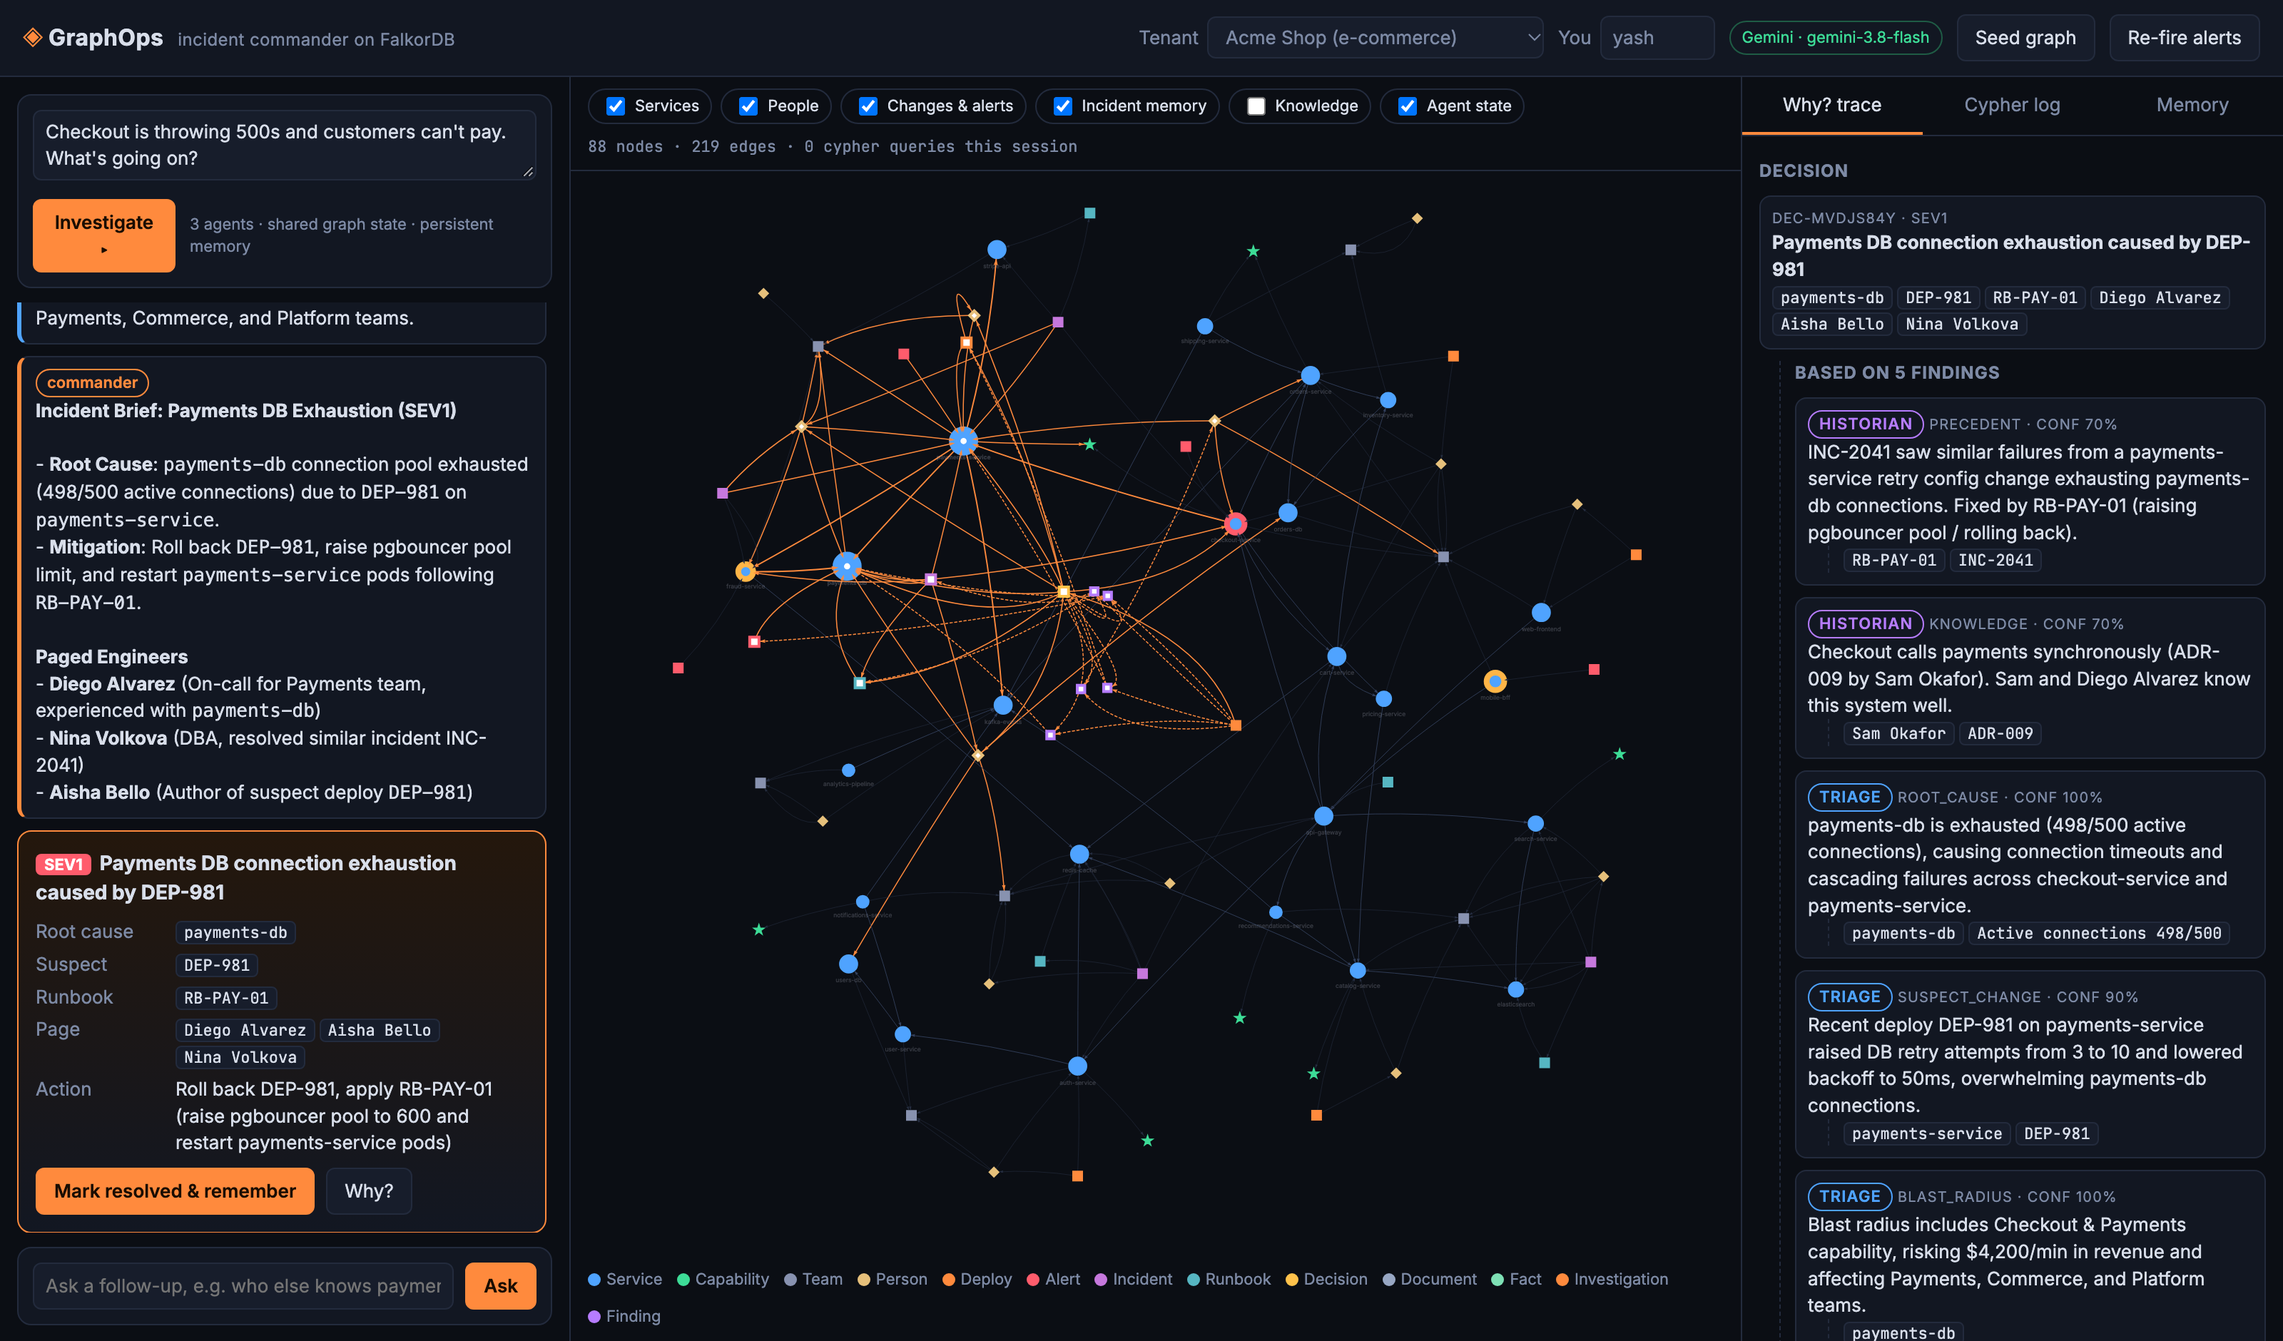
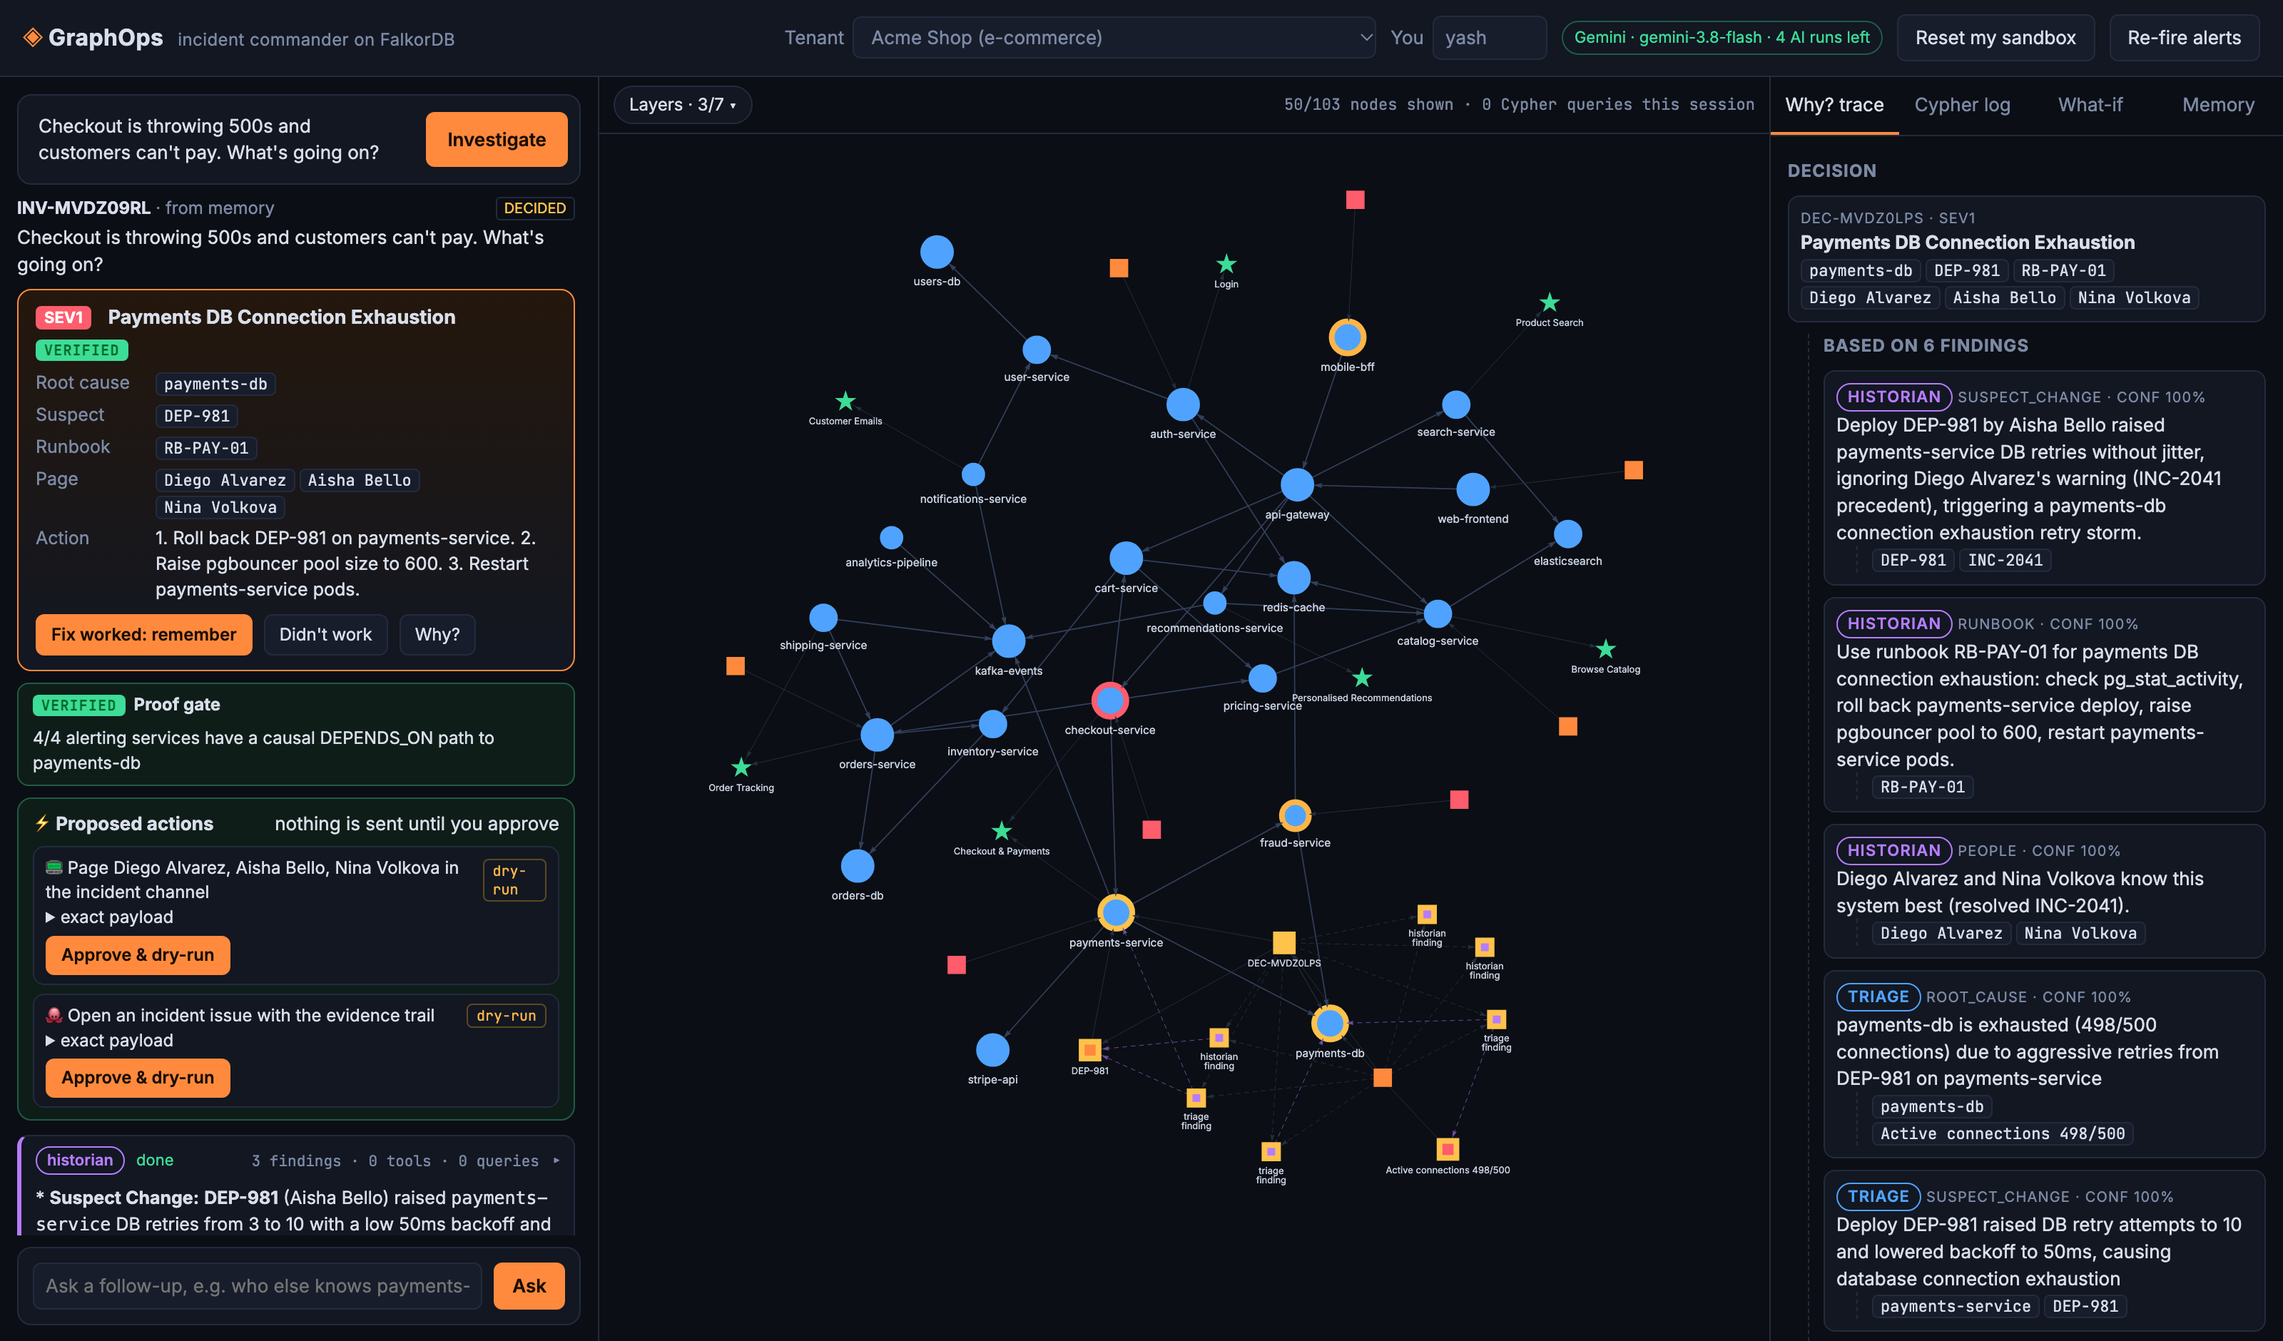
Docs refresh: new screenshot, diagram with actions, README brought up to date
- New README screenshot of a real Gemini run in the redesigned UI
- Architecture diagram: human-approved actions, trace_change, containment
- README: brief/sections UI, parsimony ranking, Historian company-brain
  tools, Commander gate and actions, otel tenant, model pool behaviour,
  CI scope, runbook versions and Action nodes in the graph model
- ?v=<id> opens a specific visitor sandbox

diff --git a/public/app.js b/public/app.js
@@ -27,6 +27,9 @@ const state = {
 // A random per-browser id. In public mode the server gives each visitor a
 // private GRAPH.COPY sandbox keyed by it.
 const VISITOR = (() => {
+  // ?v=<id> opens a specific sandbox (used for shareable links and screenshots).
+  const fromUrl = new URLSearchParams(location.search).get('v');
+  if (fromUrl) return fromUrl.replace(/[^a-z0-9]/gi, '').slice(0, 16);
   try {
     let v = localStorage.getItem('graphops-visitor');
     if (!v) { v = Math.random().toString(36).slice(2, 12); localStorage.setItem('graphops-visitor', v); }

diff --git a/README.md b/README.md
@@ -7,13 +7,15 @@
 > "Checkout is throwing 500s and customers can't pay." In seconds GraphOps says it's **payments-db**
 > connection exhaustion triggered by **DEP-981** (a retry change shipped 23 minutes ago). This is the same failure as **INC-2041**,
 > so it recommends rolling back and following **RB-PAY-01**, and it pages **Diego** (on call), **Nina** (who fixed it last time) and
-> **Aisha** (who wrote the deploy). Every claim links back to the graph nodes and Cypher queries behind it.
+> **Aisha** (who wrote the deploy). It also finds that Diego had warned against that change in `#payments-eng`. Every claim is
+> checked against the graph before it is stored, and links back to the nodes and Cypher queries behind it.
 
 Built for **Graph Hacks: Context for AI Agents** (WeMakeDevs × FalkorDB). It targets all three tracks.
 
-![GraphOps: agents, live graph and the Why? trace](docs/screenshot.png)
+![GraphOps: decision brief, live graph and the Why? trace](docs/screenshot.png)
 
-*Left: agent timeline and the Commander's decision. Center: the FalkorDB graph, with the decision's evidence subgraph highlighted. Right: the Why? trace from Decision to Findings to evidence nodes.*
+*A real Gemini run. Left: the brief (decision, proof gate VERIFIED, actions waiting for approval), then one collapsible section per
+agent. Center: the FalkorDB graph, with the evidence nodes marked. Right: the Why? trace, from the Decision to its Findings to the evidence nodes.*
 
 ## Submission at a glance
 
@@ -61,7 +63,9 @@ Each of these is a multi-hop traversal. GraphOps gives its agents those traversa
                                   ▼
    (:Decision)-[:BASED_ON]->(:Finding)  -[:ROOT_CAUSE]->(:Service)  -[:SUSPECTS]->(:Deploy)
               -[:USES]->(:Runbook)       -[:PAGES]->(:Person)
-                                  │  "Mark resolved & remember"
+            proof gate (SPpaths + maxFlow) │ VERIFIED / WEAK / REJECTED
+                                  ├──▶ (:Action) page + GitHub issue, sent only after a human approves
+                                  │  "Fix worked: remember"
                                   ▼
    (:Incident {source:'graphops'})  ← episodic memory the Historian finds next session
    Runbook.success_count += 1       ← procedural memory gets stronger
@@ -69,18 +73,21 @@ Each of these is a multi-hop traversal. GraphOps gives its agents those traversa
 
 </details>
 
-* **Triage** (Track 1) calls `probable_root_cause`. It walks `DEPENDS_ON*0..5` from every alerting service and scores the
-  nodes that explain the most alerts, boosting the deepest alerting node and nodes next to a recent deploy. It then calls
+* **Triage** (Track 1) calls `probable_root_cause`. It walks `DEPENDS_ON*0..5` from every alerting service and ranks the
+  nodes that explain the most alerts first (parsimony), then breaks ties by own alerts, the share of failing direct callers,
+  being the deepest failing node, and a recent deploy on it or next to it. It then calls
   `recent_changes`, `blast_radius` (upstream services, business capabilities and **revenue at risk per minute**) and
   `dependency_path` (`shortestPath`) to show how the failure propagates. `critical_nodes` runs **PageRank** and
   **betweenness centrality**, and `service_clusters` runs **label propagation**.
 * **Historian** (Track 2) runs *at the same time* as Triage and writes to the same investigation. It recalls
   **episodic** memory (`similar_incidents`, including incidents GraphOps itself learned), **procedural** memory (`runbooks_for`,
-  ranked by graph distance and how often each runbook worked) and **semantic** memory (`decisions_and_docs`, which covers ADRs,
-  documents and `Fact` nodes taught by users).
+  ranked by graph distance and how often each runbook worked or failed) and **semantic** memory (`decisions_and_docs`, which covers ADRs,
+  documents and `Fact` nodes taught by users, plus full-text `search_knowledge`). For the company brain it calls `trace_change`
+  on the suspect deploy (deploy → ticket → project → chat, including warnings that were ignored) and `project_context`.
 * **Commander** (Track 3) never receives the other agents' output directly. It **reads the shared investigation subgraph**,
-  ranks who to page (on-call + past resolvers + deploy authors + people who worked on the system, each with reasons)
-  and records a `Decision` linked to every finding, which in turn links to its evidence nodes.
+  runs `containment_plan`, ranks who to page (on-call + past resolvers + deploy authors + people who worked on the system,
+  each with reasons) and calls `record_decision`. That runs the proof gate, links the `Decision` to every finding, and
+  proposes the real-world actions.
 * **Chat** answers follow-ups with every tool plus guarded read-only text-to-Cypher. It loads the conversation
   history *from the graph* (`(:Investigation)-[:HAS_TURN]->(:Turn)-[:NEXT]->(:Turn)`), and `remember_fact` lets it learn from users.
 
@@ -148,15 +155,16 @@ broke" look the same in the graph. GraphOps keeps the true cause in its top 3 (7
 | Track | What GraphOps does |
 | --- | --- |
 | **1 · Act on connected data** | Multi-hop root-cause scoring (tested on the **real OpenTelemetry Demo topology and fault flags**), blast radius with revenue impact, **human-approved real actions** (Discord/Slack page, GitHub incident issue), shortest-path propagation, PageRank, betweenness and CDLP as agent tools, a **causal-path proof gate** (`algo.SPpaths` + `algo.maxFlow`), **what-if and containment simulation on `GRAPH.COPY` sandboxes**, an **MCP server** exposing all 26 tools, and a keyless benchmark |
-| **2 · Memory & coordination** | Episodic (Incidents), semantic (Facts/ADRs) and procedural (Runbook success counts) memory. Persistent conversation turns, per-user history (`(:User)-[:STARTED]->(:Investigation)`), parallel agents sharing state only through the graph with concurrent writes, and **one isolated graph per tenant** (`graphops_acme`, `graphops_globex`) |
+| **2 · Memory & coordination** | Episodic (Incidents), semantic (Facts/ADRs) and procedural (runbook success/failure counts and `SUPERSEDES` versions) memory. Persistent conversation turns, per-user history (`(:User)-[:STARTED]->(:Investigation)`), parallel agents sharing state only through the graph with concurrent writes, **one isolated graph per tenant** (`graphops_acme`, `graphops_globex`, `graphops_otel`) and, live, **one `GRAPH.COPY` sandbox per visitor**. Recall of a repeated fault: **16/16** on the OpenTelemetry Demo |
 | **3 · Company brain** | People, teams, **projects, tickets, Slack messages**, services, capabilities, deploys, docs, ADRs and incidents in one graph. `trace_change` follows a deploy to its ticket, project and chat thread and surfaces **warnings that were raised and ignored**. Who owns what, who knows what (`who_knows`), decisions traced to their motivating incident (`ADR-022 -[:MOTIVATED_BY]-> INC-2041`), and answers with sources |
 
 ### Explainability you can click
 
-* Each agent step in the timeline shows the tool, its arguments, its result and the **exact Cypher with parameters**.
-* The **Why? trace** tab renders `Decision → BASED_ON → Finding → EVIDENCE → node` and highlights that subgraph on the canvas.
-* The **Cypher log** tab lists every query the agents ran, with row counts and timings.
-* The live graph pulses each node in the acting agent's colour as tools touch it.
+* **The brief** at the top shows the decision, the proof-gate verdict with its causal paths, and the proposed actions with their exact payloads.
+* **One section per agent** lists its findings and every tool call. Expand a call to see the **exact Cypher** and its result.
+* The **Why? trace** tab renders `Decision → BASED_ON → Finding → EVIDENCE → node` and marks those nodes on the graph.
+* The **Cypher log** tab lists every query the agents ran, with row counts and timings. **What-if** runs simulations on a `GRAPH.COPY`.
+* The graph lights up each node in the acting agent's colour as tools touch it. The **Layers** menu switches node types on and off.
 
 ## Run it
 
@@ -173,7 +181,7 @@ GEMINI_API_KEY=your-key docker compose up --build
 cd graphops
 npm install
 cp .env.example .env      # add GEMINI_API_KEY and FalkorDB connection
-npm run seed              # seeds tenants acme + globex
+npm run seed              # seeds tenants acme, globex and otel (from data/otel-demo.json)
 npm start                 # http://localhost:3000
 ```
 
@@ -183,7 +191,9 @@ FalkorDB options:
 
 **No LLM key or rate-limited?** Set `GRAPHOPS_SCRIPTED=true`, or let it fall back by itself. Each agent then runs a deterministic
 playbook over the *same* graph tools and writes the *same* findings and decisions, so it keeps working. With Gemini,
-the agents choose their own tools. On a 429 they back off and step down from `gemini-3.8-flash` to `gemini-3.5-flash-lite`.
+the agents choose their own tools. Each Gemini model has its own free-tier quota, so on a 429 the model is put on cooldown and the
+call moves to the next one in `GEMINI_MODELS` (default `gemini-3.8-flash`, then `gemini-3.5-flash-lite`, `gemini-3.7-flash`…). If an
+agent finishes without recording findings, its playbook records grounded ones, so the shared state is never empty.
 
 ### Deploy it (Render, free)
 
@@ -198,7 +208,7 @@ npm test          # 14 integration tests against FalkorDB (uses its own graph, g
 npm run eval      # keyless fault-injection benchmark, writes docs/EVAL.md
 npm run import:otel && npm run eval:otel   # real OpenTelemetry Demo topology + its fault flags
 ```
-Both run in GitHub Actions against a `falkordb/falkordb` service container on every push.
+`npm test` and `npm run eval` run in GitHub Actions against a `falkordb/falkordb` service container on every push.
 
 ### Use the graph tools from Claude, Cursor or any MCP client
 
@@ -224,7 +234,7 @@ Both run in GitHub Actions against a `falkordb/falkordb` service container on ev
 (:Deploy)-[:CHANGED]->(:Service), (:Deploy)-[:AUTHORED_BY]->(:Person)
 (:Alert)-[:FIRED_ON]->(:Service)
 (:Incident)-[:ROOT_CAUSE|AFFECTED]->(:Service), -[:RESOLVED_BY]->(:Person), -[:MITIGATED_WITH]->(:Runbook), -[:TRIGGERED_BY]->(:Deploy)
-(:Runbook {success_count})-[:FOR]->(:Service)
+(:Runbook {success_count, failure_count, version})-[:FOR]->(:Service), (:Runbook)-[:SUPERSEDES]->(:Runbook)
 (:Decision)-[:ABOUT]->(:Service), -[:MADE_BY]->(:Person), -[:MOTIVATED_BY]->(:Incident)
 (:Document)-[:DOCUMENTS]->(:Service), (:Fact)-[:ABOUT]->(:Service), (:Person)-[:WORKED_ON]->(:Service)
 (:Project)-[:OWNED_BY]->(:Team), (:Project)-[:TOUCHES]->(:Service), (:Person)-[:WORKS_ON]->(:Project)
@@ -235,13 +245,15 @@ Both run in GitHub Actions against a `falkordb/falkordb` service container on ev
 (:Investigation)-[:CONCLUDED]->(:Decision {source:'agent'})-[:BASED_ON]->(:Finding)
 (:Investigation)-[:HAS_TURN]->(:Turn)-[:NEXT]->(:Turn)
 (:Incident {source:'graphops'})-[:FROM_INVESTIGATION]->(:Investigation)
+(:Decision {verdict, coverage})-[:ROOT_CAUSE|SUSPECTS|USES|PAGES|ABOUT]->(…)
+(:Action {kind, status, payload})-[:FOR_DECISION]->(:Decision), (:User)-[:APPROVED]->(:Action), (:Action)-[:NOTIFIES]->(:Person)
 ```
 
 ## Cypher queries and algorithms the product depends on
 
 All of these live in [`src/tools.js`](src/tools.js). Each agent tool is one of them.
 
-**1. Root-cause ranking** (`probable_root_cause`). Multi-hop from every alerting service. The candidate that explains the most alerts, alerts itself, sits deepest and is next to a recent deploy wins.
+**1. Root-cause ranking** (`probable_root_cause`). Multi-hop from every alerting service. Explaining the most alerts counts most; own alerts, failing direct callers, depth and a nearby recent deploy break ties. Excerpt:
 ```cypher
 MATCH (al:Alert {status: 'firing'})-[:FIRED_ON]->(a:Service)
 WITH collect(DISTINCT a) AS alerting
@@ -297,11 +309,13 @@ RETURN i.id, i.title, root.name, overlap, p.name AS resolved_by, rb.id AS runboo
 ORDER BY similarity DESC
 ```
 
-**6. Procedural memory** (`runbooks_for`). Runbooks ranked by graph distance, then by how often they worked.
+**6. Procedural memory** (`runbooks_for`). Current runbook versions, ranked by graph distance, then by times worked minus times failed.
 ```cypher
 MATCH p = (s:Service {name: $service})-[:DEPENDS_ON*0..2]-(x:Service)<-[:FOR]-(rb:Runbook)
+WHERE NOT ()-[:SUPERSEDES]->(rb)          // only the current version of each runbook
 WITH rb, x, min(length(p)) AS distance
-RETURN rb.id, rb.title, x.name, distance, rb.success_count ORDER BY distance, rb.success_count DESC
+RETURN rb.id, rb.title, x.name, distance, rb.success_count, coalesce(rb.failure_count, 0) AS failed
+ORDER BY distance, rb.success_count - failed DESC
 ```
 
 **7. Who to page** (`who_to_page`). Combines four relationship types into a ranked list with reasons. See `src/tools.js`.
@@ -379,11 +393,11 @@ OPTIONAL MATCH (tk)-[:FOLLOWS_UP]->(dec:Decision) RETURN tk.id, tk.title, dec.id
 | `test/` | Integration tests against a real FalkorDB (`npm test`), run in GitHub Actions |
 | `src/agents.js` | Gemini function-calling loop, triage/historian/commander/chat agents, parallel orchestration, scripted fallback |
 | `src/memory.js` | Investigations, turns, per-user history, decision trace, and resolve → episodic memory |
-| `src/seed.js` | Multi-tenant seed data (Acme e-commerce, Globex streaming) |
+| `src/seed.js` | Multi-tenant seed data (Acme e-commerce, Globex streaming, and the OpenTelemetry Demo topology) |
 | `src/db.js` | FalkorDB connection, per-tenant graphs, Cypher tracing via AsyncLocalStorage |
-| `src/server.js` | Express API and NDJSON event streaming |
+| `src/server.js` | Express API, NDJSON event streaming, public mode (per-visitor sandboxes, AI quota) |
 | `src/mcp.js` | MCP stdio server |
-| `public/` | Ops console UI (vis-network). `?tenant=acme&inv=INV-…` deep-links to an investigation from memory |
+| `public/` | Ops console UI (vis-network). `?tenant=acme&inv=INV-…` deep-links to an investigation from memory (`&v=<id>` picks a sandbox) |
 | `Dockerfile`, `docker-compose.yml` | One-command FalkorDB + GraphOps |
 
 ## AI assistance disclosure

diff --git a/docs/EXPLAINER.md b/docs/EXPLAINER.md
@@ -133,5 +133,6 @@ npm test              # 14 integration tests against FalkorDB
 npm run eval -- 50    # quick benchmark run
 npm run eval:otel     # the real OpenTelemetry Demo faults
 ```
-Then in the UI: click **Investigate**, open a tool card and read its Cypher, open the **Cypher log**, click **Why?**,
-try **What-if → Containment plan** on `kafka-events`, and switch the tenant to **Astronomy Shop**.
+Then in the UI: click **Investigate** and read the brief at the top (decision, proof gate, actions). Expand an agent's section
+and a tool row to read its Cypher, open the **Cypher log**, click **Why?**, try **What-if → Containment plan** on `kafka-events`,
+and switch the tenant to **Astronomy Shop** (the real OpenTelemetry Demo topology).
